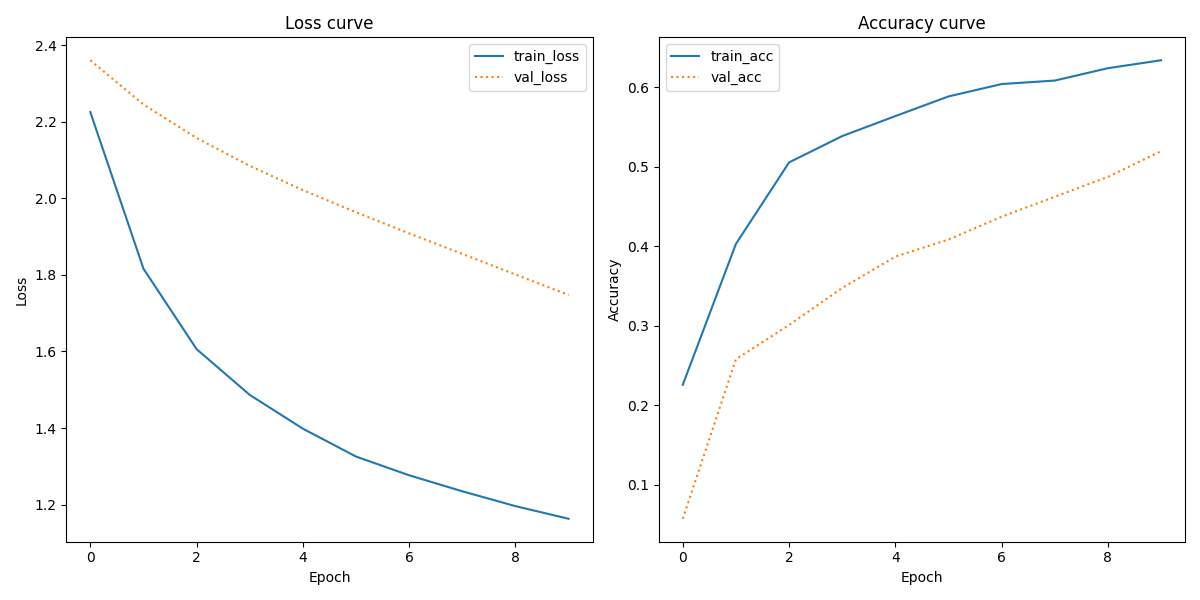
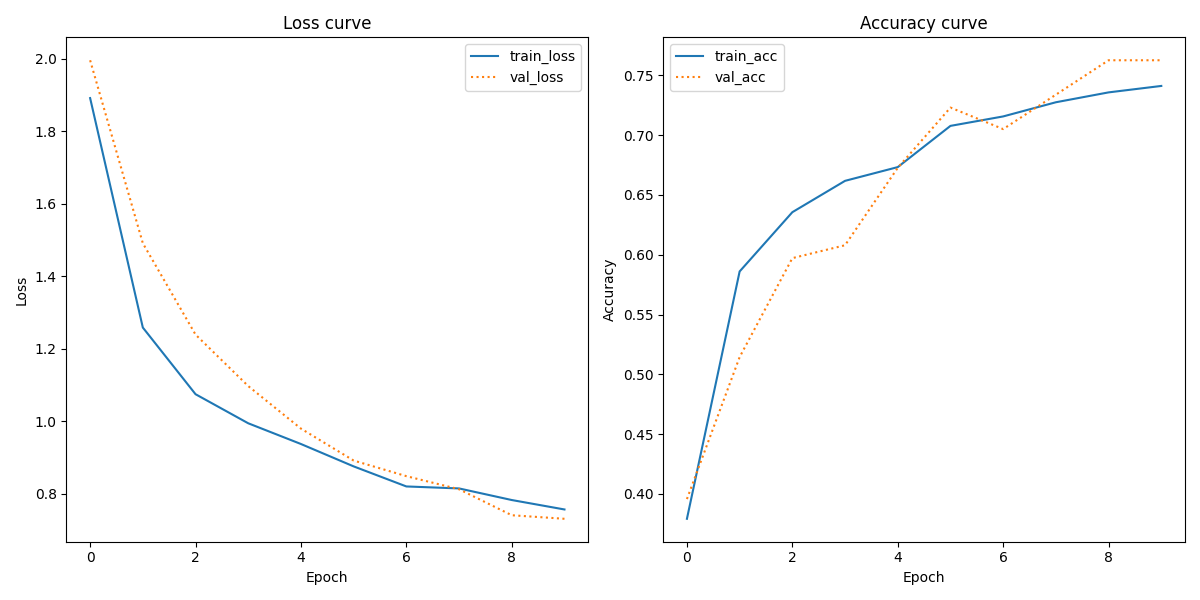
assignment 3 fixed

diff --git a/assignments/assignment3/src/main.py b/assignments/assignment3/src/main.py
@@ -1,6 +1,7 @@
 import os
 import pickle
 import numpy as np
+import argparse
 import matplotlib.pyplot as plt
 from tqdm import tqdm
 
@@ -18,7 +19,7 @@ from tensorflow.keras.applications.vgg16 import (preprocess_input,
                                                  VGG16)
 from tensorflow.keras.layers import Flatten, Dense, BatchNormalization
 from tensorflow.keras.models import Model
-from tensorflow.keras.optimizers import SGD
+from tensorflow.keras.optimizers import SGD, Adam
 
 # Get the directory where the script is located
 script_directory = os.path.dirname(os.path.realpath(__file__))
@@ -26,32 +27,32 @@ script_directory = os.path.dirname(os.path.realpath(__file__))
 os.chdir(script_directory)
 
 # Set the path to the input and output directories
-data_path = os.path.join('..', 'in', 'Tobacco3482-jpg')
+in_path = os.path.join('..', 'in')
+data_path = os.path.join(in_path, 'Tobacco3482-jpg')
 output_path = os.path.join('..', 'out')
 
 # Define the filename for the saved data
 saved_data_file = os.path.join(output_path, 'saved_data.pkl')
 
-# Function to load or save data
-def load_or_save_data(data_path, saved_data_file):
-    """
-    Load data from images or load saved data if available.
+parser = argparse.ArgumentParser(description='Use transfor learning on a VGG16 model, to teach it to distinguish between certain document types.')
+parser.add_argument('-s', '--save', required=False, type=bool, default=False, help='*OPTIONAL: Save the model after training. Default = False')
+parser.add_argument('-o', '--optimizer', required=False, type=str.lower, default='adam', help='*OPTIONAL: Which optimizer to use (Only takes SGD or Adam). Default = Adam')
+parser.add_argument('-m', '--model', required=False, type=bool, default=True, help='*OPTIONAL: Get a summary of the model. Default = True')
+parser.add_argument('-e', '--epochs', required=False, type=int, default=10, help='*OPTIONAL: How many epochs to train the model over. Default = 10.')
+parser.add_argument('-r', '--randomstate', required=False, type=int, default=42, help='*OPTIONAL: What random state/"seed" to use during training. Default = 42.')
 
-    Args:
-        data_path (str): Path to the directory containing image data.
-        saved_data_file (str): Path to the saved data file.
+args = parser.parse_args()
 
-    Returns:
-        tuple: Tuple containing data and labels.
-    """
+# Function to load a pe-made data file if it exists, or generate one if it doesnt.
+def load_or_create_data(data_path, saved_data_file):
     if os.path.exists(saved_data_file):
         print("Loading saved data...")
         with open(saved_data_file, 'rb') as f:
             data, labels = pickle.load(f)
         print('Data loaded!')
     else:
-        print("Loading data from images...")
-        data, labels = load_data(data_path)
+        print("Generating data file from images...")
+        data, labels = generate_data(data_path)
         print('Saving data...')
         with open(saved_data_file, 'wb') as f:
             pickle.dump((data, labels), f)
@@ -59,22 +60,13 @@ def load_or_save_data(data_path, saved_data_file):
     return data, labels
 
 # Function to load data from images
-def load_data(data_path):
-    """
-    Load image data from the specified directory.
-
-    Args:
-        data_path (str): Path to the directory containing image data.
-
-    Returns:
-        tuple: Tuple containing data and labels.
-    """
+def generate_data(data_path):
     data = []
     labels = []
 
-    for folder in os.listdir(data_path):
+    for folder in tqdm(sorted(os.listdir(data_path)), desc='Processing folders...'):
         folder_path = os.path.join(data_path, folder)
-        for image_file in tqdm(os.listdir(folder_path)):
+        for image_file in tqdm(sorted(os.listdir(folder_path)), desc=f'Processing folder: {folder}'):
             if image_file.endswith('.jpg'):
                 image_path = os.path.join(folder_path, image_file)
                 image = load_img(image_path, target_size=(224, 224))  
@@ -85,80 +77,74 @@ def load_data(data_path):
 
     return np.array(data), np.array(labels)
 
-# Function to build the model
 def build_model():
-    """
-    Build the VGG16-based model for image classification.
+    # Loads the model without the classification layers
+    base_model = VGG16(include_top=False, pooling='avg', input_shape=(224, 224, 3))
 
-    Returns:
-        Model: Compiled Keras model.
-    """
-    base_model = VGG16(include_top=False,
-                       pooling='avg',
-                       input_shape=(224, 224, 3))
+    # Marks the loaded layers as not trainable
     for layer in base_model.layers:
         layer.trainable = False
+
+    # Adds new classification layers to the base model
     flat1 = Flatten()(base_model.layers[-1].output)
     bn = BatchNormalization()(flat1)
     class1 = Dense(128, activation='relu')(bn)
-    output = Dense(10, activation='softmax')(class1)
-    model = Model(inputs=base_model.inputs, outputs=output)
+    drop = Dropout(0.1)(class1)
+    output = Dense(10, activation='softmax')(drop)
 
-    lr_schedule = tf.keras.optimizers.schedules.ExponentialDecay(
-    initial_learning_rate=0.01,
-    decay_steps=10000,
-    decay_rate=0.9)
+    # creating the new model using the models input and output layers 
+    new_model = Model(inputs=base_model.inputs, outputs=output)
 
-    sgd = SGD(learning_rate=lr_schedule)
-
-    model.compile(optimizer=sgd,
-                  loss='categorical_crossentropy',
-                  metrics=['accuracy'])
-
-    return model
-
-# Function to train the model
-def train_model(model, X_train, y_train, epochs=10):
-    """
-    Train the specified model on the training data.
-
-    Args:
-        model (Model): Keras model to train.
-        X_train (ndarray): Training data.
-        y_train (ndarray): Training labels.
-
-    Returns:
-        tuple: Tuple containing the trained model and training history.
-    """
-    history = model.fit(X_train, y_train, 
-                        validation_split=0.1, 
-                        batch_size=128, 
-                        epochs=epochs, 
-                        verbose=1)
+    # Initializes the learning_rate_schedule 
+    lr_schedule = tf.keras.optimizers.schedules.ExponentialDecay(initial_learning_rate=0.001, 
+                                                                    decay_steps=10000,
+                                                                    decay_rate=0.9)
     
-    return model, history
+    if args.optimizer == 'adam':
+        # Initializes the adam optimizer 
+        model_optimizer = Adam(learning_rate=lr_schedule)
+    if args.optimizer == 'sgd':
+        # Initializes the adam optimizer 
+        model_optimizer = SGD(learning_rate=lr_schedule)
+
+    # Compiles the final model 
+    new_model.compile(optimizer=model_optimizer, loss='categorical_crossentropy', metrics=['accuracy'])
+
+    if args.model:
+        new_model.summary()
+
+    return new_model
+
+def setup_datagenerator():
+    datagen = ImageDataGenerator(horizontal_flip=True, 
+                                rotation_range=20,
+                                fill_mode='nearest',
+                                brightness_range=[0.9,1.1],
+                                validation_split=0.1)
+    return datagen
+
+def train_model(model, X_train, y_train, datagen):   
+
+    # Fits the model on the training and validation data using "datagen" for data augmentation
+    H = model.fit(datagen.flow(X_train, y_train, batch_size=128), 
+                                validation_data = datagen.flow(X_train, y_train, 
+                                                                batch_size=128, 
+                                                                subset = "validation"),
+                                                                epochs=args.epochs,
+                                                                verbose=1) 
+
+    return H
 
 # Function to evaluate the model
 def evaluate_model(model, X_test, y_test, lb):
-    """
-    Evaluate the trained model on the test data.
-
-    Args:
-        model (Model): Trained Keras model.
-        X_test (ndarray): Test data.
-        y_test (ndarray): Test labels.
-        lb (LabelBinarizer): LabelBinarizer object used for encoding.
-
-    Returns:
-        None
-    """
     predictions = model.predict(X_test, batch_size=128)
-    report = classification_report(y_test.argmax(axis=1), predictions.argmax(axis=1), target_names=lb.classes_)
+    report = classification_report(y_test.argmax(axis=1), 
+                                    predictions.argmax(axis=1), 
+                                    target_names=lb.classes_)
     print(report)
-    with open(os.path.join(output_path, 'classification_report_with_vgg16.txt'), 'w') as f:
+    with open(os.path.join(output_path, 'classification_report_with_vgg16 12.txt'), 'w') as f:
         f.write(report)
 
-# Function to plot learning curves
 def plot_history(H, epochs):
     plt.figure(figsize=(12,6))
     plt.subplot(1,2,1)
@@ -178,32 +164,31 @@ def plot_history(H, epochs):
     plt.ylabel("Accuracy")
     plt.tight_layout()
     plt.legend()
-    plt.savefig(os.path.join(output_path,'learning curves.png'))
+    plt.savefig(os.path.join(output_path,'learning curves 12.png'))
 
 # Main function
 def main():
     # Load or save data
-    X, y = load_or_save_data(data_path, saved_data_file)
-    # Split data into training and testing sets
-    X_train, X_test, y_train, y_test = train_test_split(X, y, test_size=0.2)
-    # Normalize pixel values
-    X_train = X_train.astype('float') / 255.0
-    X_test = X_test.astype('float') / 255.0
+    data, labels = load_or_create_data(data_path, saved_data_file)
     # Encode labels
     lb = LabelBinarizer()
-    y_train = lb.fit_transform(y_train)
-    y_test = lb.fit_transform(y_test)
+    labels = lb.fit_transform(labels)
+    # Split data into training and testing sets
+    X_train, X_test, y_train, y_test = train_test_split(data, labels, test_size=0.2, random_state=args.randomstate)
     # Build model
     model = build_model()
-    # Train model
-    epochs = 10
-    model, history = train_model(model, X_train, y_train, epochs)
+
+    # Generates data using data augmentation
+    datagen = setup_datagenerator()
+
+    history = train_model(model, X_train, y_train, datagen)
     # Plot learning curves
-    plot_history(history, epochs)
-    # Save model
-    model.save(os.path.join(output_path, 'tobacco_vgg16.h5'))
+    plot_history(history, args.epochs)
     # Evaluate model
     evaluate_model(model, X_test, y_test, lb)
+
+    if args.save:
+        model.save(os.path.join(output_path, 'tobacco_vgg16.h5'))
 
 if __name__ == '__main__':
     main()
